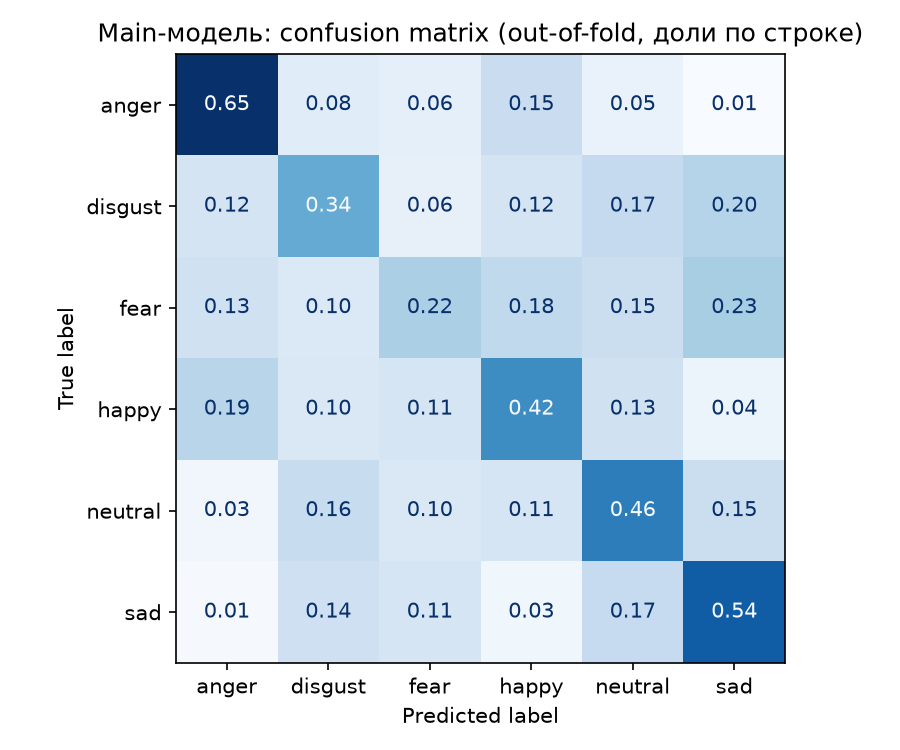
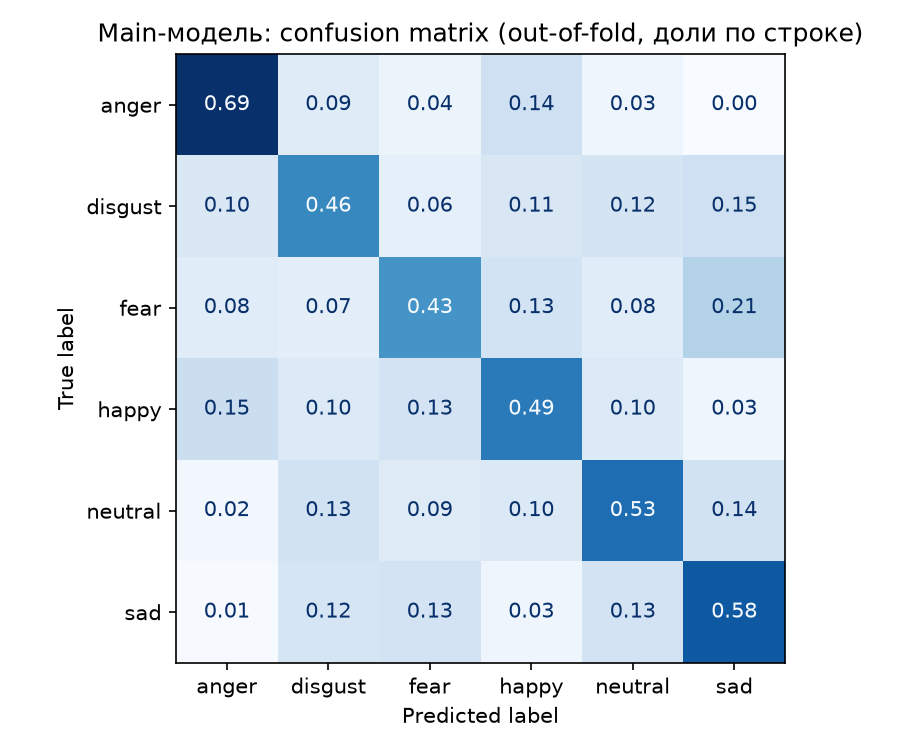
Add MFCC and spectral features, switch main model to LightGBM

diff --git a/scripts/train_emotion_models.py b/scripts/train_emotion_models.py
@@ -1,37 +1,37 @@
 """Обучение и валидация baseline- и основной модели эмоций по аудиоканалу (ДЗ №3, Этап 2).
 
-Вход - потабличные акустические признаки CREMA-D (см. extract_crema_acoustic_features.py),
-выход - метрики по фолдам, confusion matrix основной модели и иллюстративная
-проверка baseline-агрегации (п. 3.2 дизайн-документа) на суррогатной бинарной метке
-"высокий/низкий arousal" вместо недоступной реальной экспертной разметки.
+Вход - потабличные акустические признаки CREMA-D (см. extract_crema_acoustic_features.py:
+базовые признаки + MFCC, спектральные статистики, перцентили pitch), выход - метрики по
+фолдам, важность признаков и confusion matrix основной модели (LightGBM), а также
+иллюстративная проверка baseline-агрегации (п. 3.2 дизайн-документа) на суррогатной
+бинарной метке "высокий/низкий arousal" вместо недоступной реальной экспертной разметки.
 """
 
 import argparse
 import json
 from pathlib import Path
 
+import lightgbm as lgb
 import matplotlib.pyplot as plt
 import numpy as np
 import pandas as pd
 from scipy.stats import spearmanr
-from sklearn.ensemble import HistGradientBoostingClassifier
 from sklearn.linear_model import LogisticRegression
 from sklearn.metrics import ConfusionMatrixDisplay, confusion_matrix, f1_score
 from sklearn.model_selection import GroupKFold
 from sklearn.pipeline import Pipeline
 from sklearn.preprocessing import StandardScaler
 
-FEATURE_COLS = [
-    "duration_s",
-    "rms_mean",
-    "rms_std",
-    "zcr_mean",
-    "silence_ratio",
-    "pitch_mean_hz",
-    "pitch_std_hz",
-    "voiced_fraction",
-    "pitch_missing",
-]
+# Колонки-метаданные файла - не признаки для модели.
+NON_FEATURE_COLS = {
+    "file",
+    "actor_id",
+    "sentence_code",
+    "emotion_code",
+    "emotion",
+    "level_code",
+    "level",
+}
 
 # Группировка по arousal из EDA (docs/eda_report.md, раздел 2): anger/happy/fear -
 # высокий pitch и энергия, мало пауз; sad/neutral - низкий pitch и энергия, много пауз.
@@ -43,9 +43,13 @@ LOW_AROUSAL = {"sad", "neutral"}
 def load_features(path):
     df = pd.read_csv(path)
     df["pitch_missing"] = df["pitch_mean_hz"].isna().astype(int)
-    for col in ("pitch_mean_hz", "pitch_std_hz"):
-        df[col] = df[col].fillna(df[col].median())
-    return df
+    feature_cols = [c for c in df.columns if c not in NON_FEATURE_COLS]
+    # Единичные сбои извлечения (слишком короткий/тихий клип) закрываем медианой
+    # по всей выборке - сам факт сбоя для pitch уже отражён в pitch_missing.
+    for col in feature_cols:
+        if df[col].isna().any():
+            df[col] = df[col].fillna(df[col].median())
+    return df, feature_cols
 
 
 def evaluate(model, x, y, groups, n_splits):
@@ -113,8 +117,8 @@ def main():
     out_dir = Path(args.out_dir)
     out_dir.mkdir(parents=True, exist_ok=True)
 
-    df = load_features(args.features_csv)
-    x = df[FEATURE_COLS]
+    df, feature_cols = load_features(args.features_csv)
+    x = df[feature_cols]
     y = df["emotion"]
     groups = df["actor_id"]
 
@@ -125,12 +129,15 @@ def main():
                 ("clf", LogisticRegression(max_iter=2000, class_weight="balanced")),
             ]
         ),
-        "main_histgb": HistGradientBoostingClassifier(random_state=0),
+        "main_lgbm": lgb.LGBMClassifier(
+            random_state=0, class_weight="balanced", n_estimators=300, verbose=-1
+        ),
     }
 
     labels = sorted(y.unique())
     per_class_f1 = {}
     results = {}
+    main_model_fitted = None
     for name, model in models.items():
         scores, oof_pred = evaluate(model, x, y, groups, args.n_splits)
         results[name] = {
@@ -139,16 +146,23 @@ def main():
             "fold_scores": [float(s) for s in scores],
         }
         per_class_f1[name] = f1_score(y, oof_pred, labels=labels, average=None)
-        if name == "main_histgb":
+        if name == "main_lgbm":
             plot_confusion_matrix(y, oof_pred, labels, out_dir / "main_model_confusion_matrix.png")
+            main_model_fitted = model.fit(x, y)
 
     per_class_df = pd.DataFrame(per_class_f1, index=labels)
     per_class_df.index.name = "emotion"
     per_class_df.to_csv(out_dir / "per_class_f1.csv")
 
+    importance_df = pd.DataFrame(
+        {"feature": feature_cols, "importance": main_model_fitted.feature_importances_}
+    ).sort_values("importance", ascending=False)
+    importance_df.to_csv(out_dir / "main_model_feature_importance.csv", index=False)
+
     results["illustrative_pilot_correlation"] = illustrative_pilot_correlation(df)
     results["n_samples"] = int(len(df))
     results["n_speakers"] = int(groups.nunique())
+    results["n_features"] = len(feature_cols)
     results["n_splits"] = args.n_splits
 
     out_path = out_dir / "model_results.json"

diff --git a/scripts/extract_crema_acoustic_features.py b/scripts/extract_crema_acoustic_features.py
@@ -76,11 +76,31 @@ def extract_one(path: Path):
         voiced = voiced[~np.isnan(voiced)] if voiced.size else voiced
         pitch_mean = float(np.mean(voiced)) if voiced.size else float("nan")
         pitch_std = float(np.std(voiced)) if voiced.size else float("nan")
+        pitch_p10 = float(np.percentile(voiced, 10)) if voiced.size else float("nan")
+        pitch_p90 = float(np.percentile(voiced, 90)) if voiced.size else float("nan")
         voiced_fraction = float(np.mean(voiced_flag)) if voiced_flag is not None else float("nan")
+        voiced_segment_count = (
+            int(np.sum(np.diff(voiced_flag.astype(int)) == 1) + (1 if voiced_flag[0] else 0))
+            if voiced_flag is not None
+            else 0
+        )
     except Exception:  # noqa: BLE001
-        pitch_mean = pitch_std = voiced_fraction = float("nan")
+        pitch_mean = pitch_std = pitch_p10 = pitch_p90 = voiced_fraction = float("nan")
+        voiced_segment_count = 0
 
-    return {
+    try:
+        mfcc = librosa.feature.mfcc(y=y, sr=sr, n_mfcc=13)
+        mfcc_mean = mfcc.mean(axis=1)
+        mfcc_std = mfcc.std(axis=1)
+        spectral_centroid = float(np.mean(librosa.feature.spectral_centroid(y=y, sr=sr)[0]))
+        spectral_bandwidth = float(np.mean(librosa.feature.spectral_bandwidth(y=y, sr=sr)[0]))
+        spectral_rolloff = float(np.mean(librosa.feature.spectral_rolloff(y=y, sr=sr)[0]))
+        spectral_flatness = float(np.mean(librosa.feature.spectral_flatness(y=y)[0]))
+    except Exception:  # noqa: BLE001
+        mfcc_mean = mfcc_std = np.full(13, np.nan)
+        spectral_centroid = spectral_bandwidth = spectral_rolloff = spectral_flatness = float("nan")
+
+    row = {
         "file": stem,
         "actor_id": actor_id,
         "sentence_code": sentence_code,
@@ -91,12 +111,24 @@ def extract_one(path: Path):
         "duration_s": duration,
         "rms_mean": float(np.mean(rms)),
         "rms_std": float(np.std(rms)),
+        "rms_range": float(np.max(rms) - np.min(rms)),
         "zcr_mean": float(np.mean(zcr)),
         "silence_ratio": silence_ratio,
         "pitch_mean_hz": pitch_mean,
         "pitch_std_hz": pitch_std,
+        "pitch_p10_hz": pitch_p10,
+        "pitch_p90_hz": pitch_p90,
         "voiced_fraction": voiced_fraction,
+        "voiced_segment_count": voiced_segment_count,
+        "spectral_centroid_mean": spectral_centroid,
+        "spectral_bandwidth_mean": spectral_bandwidth,
+        "spectral_rolloff_mean": spectral_rolloff,
+        "spectral_flatness_mean": spectral_flatness,
     }
+    for i in range(13):
+        row[f"mfcc{i + 1}_mean"] = float(mfcc_mean[i])
+        row[f"mfcc{i + 1}_std"] = float(mfcc_std[i])
+    return row
 
 
 def main():

diff --git a/docs/ml_system_design_doc.md b/docs/ml_system_design_doc.md
@@ -245,32 +245,33 @@ VAD на схеме - voice activity detection (детектор речевой 
   конкретного человека, а не эмоции.
 - **Структура бейзлайна.** Предобработка: ffmpeg-декодирование →
   16 кГц моно → VAD/обрезка тишины на границах → извлечение
-  акустических признаков (librosa: pitch через pyin, RMS-энергия,
-  ZCR, доля тишины) и ASR-транскрипта. Моделирование: текстовый канал
-  и агрегация остаются на открытых предобученных моделях/эвристике без
+  акустических признаков (librosa: pitch через pyin и его перцентили,
+  RMS-энергия, ZCR, доля тишины, счётчик голосовых сегментов, MFCC-1..13
+  и спектральные статистики - центроид, ширина полосы, rolloff,
+  плоскостность) и ASR-транскрипта. Моделирование: текстовый канал и
+  агрегация остаются на открытых предобученных моделях/эвристике без
   дообучения; классификация эмоций по акустическим признакам, напротив,
-  обучается как лёгкий табличный классификатор на открытых данных (см.
+  обучается как табличный классификатор на открытых данных (см.
   результаты обучения ниже), baseline-агрегация - взвешенное правило по
   нормализованным признакам.
-- **Результаты обучения и валидации (ДЗ №3).** Baseline -
-  логистическая регрессия на нормализованных признаках, main -
-  `HistGradientBoostingClassifier`; оба обучены на 8 акустических
-  признаках (+ QC-флаг пропущенного pitch) предсказывать 6 классов
-  эмоций CREMA-D, валидация - `GroupKFold` (5 фолдов) по `actor_id`
-  (один актёр не встречается одновременно в train и test). Macro-F1,
-  усреднено по фолдам: baseline 0.428 ± 0.014, main 0.428 ± 0.009 -
-  практически одинаково. Main чуть лучше ловит `fear` (per-class F1
-  0.267 против 0.231 у baseline - тот же класс, что хуже всего
-  распознаётся ASR на Этапе 1), но проигрывает baseline на части
-  остальных классов. Вывод: низкоуровневые акустические признаки
-  (pitch/энергия/ZCR/паузы) сами по себе дают ограниченный потолок
-  разделимости для 6-классовой эмоции независимо от сложности модели
-  поверх них - рост качества требует более богатых признаков
-  (эмбеддингов) или дообучения на данных, близких к целевому домену -
-  усложнение классификатора поверх тех же признаков само по себе
-  результат не меняет.
-  Детали и confusion matrix - в `reports/hw3/model_results.json`,
-  `reports/hw3/per_class_f1.csv`, `reports/hw3/main_model_confusion_matrix.png`.
+- **Результаты обучения и валидации (ДЗ №3).** Baseline - логистическая
+  регрессия на нормализованных признаках, main - `LightGBM`; оба обучены
+  на 42 акустических признаках (базовые + MFCC + спектральные
+  статистики, см. выше) предсказывать 6 классов эмоций CREMA-D,
+  валидация - `GroupKFold` (5 фолдов) по `actor_id` (один актёр не
+  встречается одновременно в train и test). Расширение признакового
+  пространства с 8 до 42 колонок дало основной прирост качества:
+  macro-F1 вырос с ~0.43 до baseline 0.518 ± 0.024, main (LightGBM)
+  0.527 ± 0.016 - на этот раз main уже устойчиво обходит baseline, а не
+  идёт вровень. Главный вклад в прирост - MFCC-признаки (доминируют в
+  top-15 важности LightGBM, `reports/hw3/main_model_feature_importance.csv`),
+  которые кодируют тембральную окраску голоса и не сводятся к pitch/
+  энергии/паузам. `fear` (самый проблемный класс и для ASR на Этапе 1, и
+  для первой версии моделей) подрос с per-class F1 0.267 до 0.457 - на
+  MFCC и спектральных признаках голос в испуге отличим заметно лучше,
+  чем на одном pitch/energy. Детали, per-class F1 и confusion matrix - в
+  `reports/hw3/model_results.json`, `reports/hw3/per_class_f1.csv`,
+  `reports/hw3/main_model_confusion_matrix.png`.
 - **Стратегии дальнейшего развития.** Дообучение классификаторов
   эмоций на данных, близких к целевому домену (как только появятся
   размеченные реальные примеры); feature engineering поверх базовых
